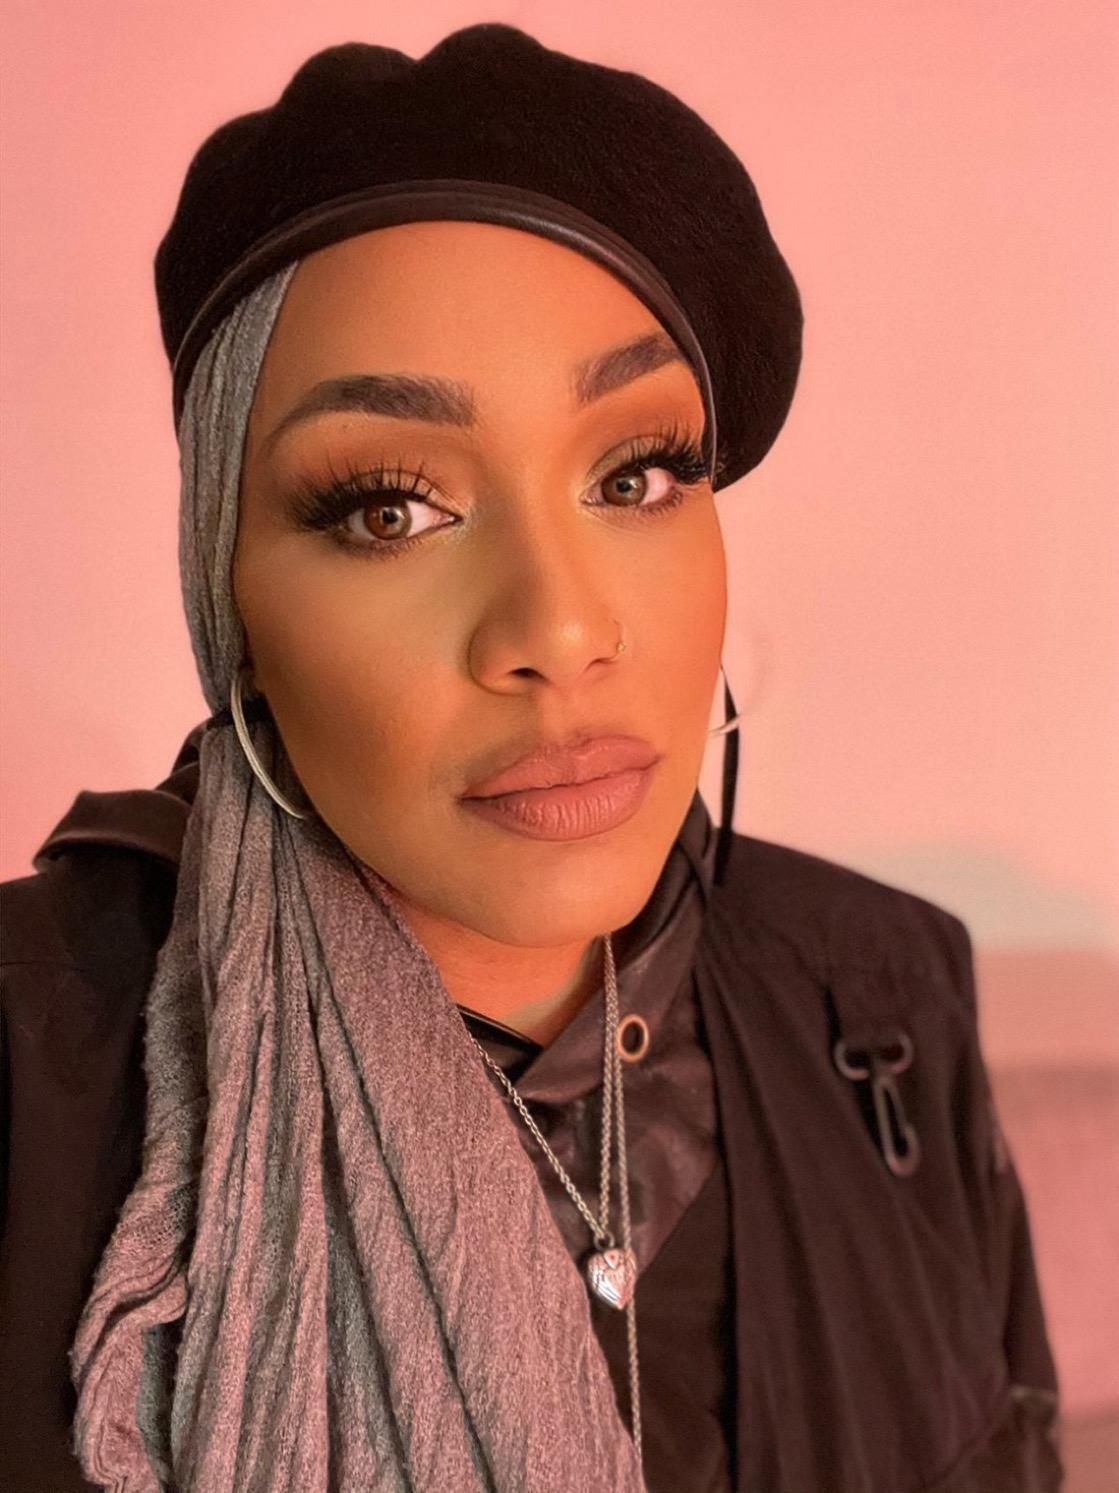
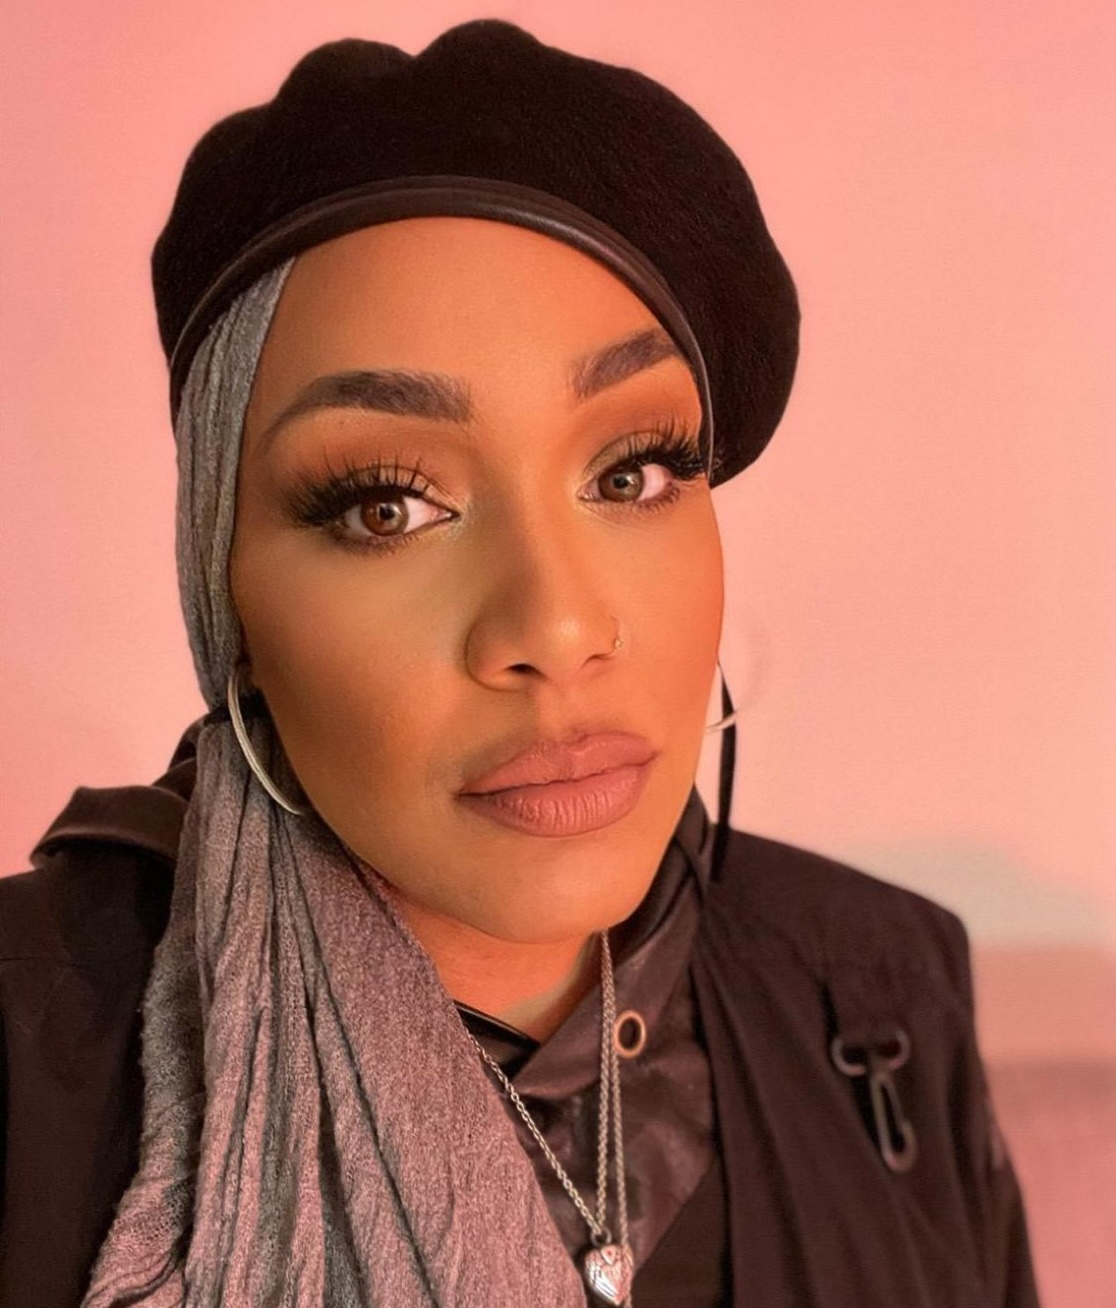
Chore: minor changes, removed links that are not working yet

diff --git a/components/navbar.tsx b/components/navbar.tsx
@@ -11,21 +11,21 @@ import { NavigationMenu, NavigationMenuLink, NavigationMenuList } from "./ui/nav
 import { SheetContent, SheetHeader, SheetTitle, SheetTrigger } from "./ui/sheet";
 import Logo from "@/public/Musicmindlogo.svg";
 import Image from "next/image";
-import Info from "@/public/info-circle.svg";
+// import Info from "@/public/info-circle.svg";
 import Infoh from "@/public/info-circleh.svg";
-import People from "@/public/people.svg";
+// import People from "@/public/people.svg";
 import Peopleh from "@/public/peopleh.svg";
-import Case from "@/public/briefcase.svg";
-import Caseh from "@/public/briefcaseh.svg";
-import Text from "@/public/text-block.svg";
+// import Case from "@/public/briefcase.svg";
+// import Caseh from "@/public/briefcaseh.svg";
+// import Text from "@/public/text-block.svg";
 import Texth from "@/public/text-blockh.svg";
 import { MdKeyboardArrowDown, MdKeyboardArrowUp } from "react-icons/md";
-import {
-  DropdownMenu,
-  DropdownMenuContent,
-  DropdownMenuItem,
-  DropdownMenuTrigger,
-} from "@/components/ui/dropdown-menu";
+// import {
+//   DropdownMenu,
+//   DropdownMenuContent,
+//   DropdownMenuItem,
+//   DropdownMenuTrigger,
+// } from "@/components/ui/dropdown-menu";
 import React from "react";
 import LanguageSwitcher from "./LanguageSwitcher";
 
@@ -33,27 +33,27 @@ export default function NavBar({ locale }: { locale: string }) {
   const { t } = useTranslation("common");
   console.log(`NavBar locale: ${locale}, t is function: ${typeof t === "function"}`);
 
-  const [isOpen, setIsOpen] = useState(false);
+  //const [isOpen, setIsOpen] = useState(false);
   const [expandedMenu, setExpandedMenu] = useState<string | null>(null);
-  const [hoverStates, setHoverStates] = useState({
-    aboutUs: false,
-    career: false,
-    culture: false,
-    press: false,
-  });
+  // const [hoverStates, setHoverStates] = useState({
+  //   aboutUs: false,
+  //   career: false,
+  //   culture: false,
+  //   press: false,
+  // });
 
-  const handleOpenChange = (open: boolean) => {
-    setIsOpen(open);
-    if (!open) setExpandedMenu(null);
-  };
-
-  const handleMouseEnter = (item: keyof typeof hoverStates) => {
-    setHoverStates((prev) => ({ ...prev, [item]: true }));
-  };
-
-  const handleMouseLeave = (item: keyof typeof hoverStates) => {
-    setHoverStates((prev) => ({ ...prev, [item]: false }));
-  };
+  // const handleOpenChange = (open: boolean) => {
+  //   setIsOpen(open);
+  //   if (!open) setExpandedMenu(null);
+  // };
+  //
+  // const handleMouseEnter = (item: keyof typeof hoverStates) => {
+  //   setHoverStates((prev) => ({ ...prev, [item]: true }));
+  // };
+  //
+  // const handleMouseLeave = (item: keyof typeof hoverStates) => {
+  //   setHoverStates((prev) => ({ ...prev, [item]: false }));
+  // };
 
   const toggleMenu = (menu: string) => {
     setExpandedMenu(expandedMenu === menu ? null : menu);
@@ -115,15 +115,15 @@ export default function NavBar({ locale }: { locale: string }) {
                         <span>{t("navbar.about_us")}</span>
                       </Button>
                     </Link>
-                    <Link href="/career">
-                      <Button
-                        variant="ghost"
-                        className="w-full flex items-start justify-start space-x-2"
-                      >
-                        <Image src={Caseh} alt="" className="h-6 w-6" width={24} height={24} />
-                        <span>{t("navbar.career")}</span>
-                      </Button>
-                    </Link>
+                    {/*<Link href="/career">*/}
+                    {/*  <Button*/}
+                    {/*    variant="ghost"*/}
+                    {/*    className="w-full flex items-start justify-start space-x-2"*/}
+                    {/*  >*/}
+                    {/*    <Image src={Caseh} alt="" className="h-6 w-6" width={24} height={24} />*/}
+                    {/*    <span>{t("navbar.career")}</span>*/}
+                    {/*  </Button>*/}
+                    {/*</Link>*/}
                     <Link href="/culture">
                       <Button
                         variant="ghost"
@@ -164,16 +164,16 @@ export default function NavBar({ locale }: { locale: string }) {
                     </Button>
                   </Link>
                 </DialogClose>
-                <DialogClose asChild>
-                  <Link href="/how-it-works">
-                    <Button
-                      variant="ghost"
-                      className="w-full flex items-center justify-start space-x-2"
-                    >
-                      <span>{t("navbar.how_it_works")}</span>
-                    </Button>
-                  </Link>
-                </DialogClose>
+                {/*<DialogClose asChild>*/}
+                {/*  <Link href="/how-it-works">*/}
+                {/*    <Button*/}
+                {/*      variant="ghost"*/}
+                {/*      className="w-full flex items-center justify-start space-x-2"*/}
+                {/*    >*/}
+                {/*      <span>{t("navbar.how_it_works")}</span>*/}
+                {/*    </Button>*/}
+                {/*  </Link>*/}
+                {/*</DialogClose>*/}
               </div>
               <div className="bg-[#F2F1FF] absolute bottom-0 left-0 w-full flex justify-center items-center p-4">
                 <Link href="/waitlist">
@@ -185,77 +185,77 @@ export default function NavBar({ locale }: { locale: string }) {
         </Dialog>
 
         <div className="flex items-center gap-2 max-[825px]:hidden">
-          <DropdownMenu onOpenChange={handleOpenChange}>
-            <DropdownMenuTrigger>
-              <Button variant="ghost">
-                {t("navbar.company")}{" "}
-                {isOpen ? (
-                  <MdKeyboardArrowUp className="h-5 w-5 text-gray-500" />
-                ) : (
-                  <MdKeyboardArrowDown className="h-5 w-5 text-gray-500" />
-                )}
-              </Button>
-            </DropdownMenuTrigger>
-            <DropdownMenuContent className="p-5 border-8 border-[#EEEDFF] rounded-lg">
-              <DropdownMenuItem
-                onMouseEnter={() => handleMouseEnter("aboutUs")}
-                onMouseLeave={() => handleMouseLeave("aboutUs")}
-              >
-                <Link href="/about" className="flex gap-2">
-                  <Image src={hoverStates.aboutUs ? Infoh : Info} alt="" className="pr-1" />
-                  <div className="flex-col items-center">
-                    <h4 className="font-bold">{t("navbar.about_us")}</h4>
-                    <p>{t("navbar.about_us_description")}</p>
-                  </div>
-                </Link>
-              </DropdownMenuItem>
-              <DropdownMenuItem
-                onMouseEnter={() => handleMouseEnter("career")}
-                onMouseLeave={() => handleMouseLeave("career")}
-              >
-                <Link href="/career" className="flex gap-2">
-                  <Image src={hoverStates.career ? Caseh : Case} alt="" className="pr-1" />
-                  <div className="flex-col items-center">
-                    <h4 className="font-bold">{t("navbar.career")}</h4>
-                    <p>{t("navbar.career_description")}</p>
-                  </div>
-                </Link>
-              </DropdownMenuItem>
-              <DropdownMenuItem
-                onMouseEnter={() => handleMouseEnter("culture")}
-                onMouseLeave={() => handleMouseLeave("culture")}
-              >
-                <Link href="/culture" className="flex gap-2">
-                  <Image src={hoverStates.culture ? Peopleh : People} alt="" className="pr-1" />
-                  <div className="flex-col items-center">
-                    <h4 className="font-bold">{t("navbar.culture")}</h4>
-                    <p>{t("navbar.culture_description")}</p>
-                  </div>
-                </Link>
-              </DropdownMenuItem>
-              <DropdownMenuItem
-                onMouseEnter={() => handleMouseEnter("press")}
-                onMouseLeave={() => handleMouseLeave("press")}
-              >
-                <Link href="/" className="flex gap-2">
-                  <Image src={hoverStates.press ? Texth : Text} alt="" className="pr-1" />
-                  <div className="flex-col items-center">
-                    <h4 className="font-bold">{t("navbar.press")}</h4>
-                    <p>{t("navbar.press_description")}</p>
-                  </div>
-                </Link>
-              </DropdownMenuItem>
-            </DropdownMenuContent>
-          </DropdownMenu>
+          {/*<DropdownMenu onOpenChange={handleOpenChange}>*/}
+          {/*  <DropdownMenuTrigger>*/}
+          {/*    <Button variant="ghost">*/}
+          {/*      {t("navbar.company")}{" "}*/}
+          {/*      {isOpen ? (*/}
+          {/*        <MdKeyboardArrowUp className="h-5 w-5 text-gray-500" />*/}
+          {/*      ) : (*/}
+          {/*        <MdKeyboardArrowDown className="h-5 w-5 text-gray-500" />*/}
+          {/*      )}*/}
+          {/*    </Button>*/}
+          {/*  </DropdownMenuTrigger>*/}
+          {/*  <DropdownMenuContent className="p-5 border-8 border-[#EEEDFF] rounded-lg">*/}
+          {/*    <DropdownMenuItem*/}
+          {/*      onMouseEnter={() => handleMouseEnter("aboutUs")}*/}
+          {/*      onMouseLeave={() => handleMouseLeave("aboutUs")}*/}
+          {/*    >*/}
+          {/*      <Link href="/about" className="flex gap-2">*/}
+          {/*        <Image src={hoverStates.aboutUs ? Infoh : Info} alt="" className="pr-1" />*/}
+          {/*        <div className="flex-col items-center">*/}
+          {/*          <h4 className="font-bold">{t("navbar.about_us")}</h4>*/}
+          {/*          <p>{t("navbar.about_us_description")}</p>*/}
+          {/*        </div>*/}
+          {/*      </Link>*/}
+          {/*    </DropdownMenuItem>*/}
+          {/*    /!*<DropdownMenuItem*!/*/}
+          {/*    /!*  onMouseEnter={() => handleMouseEnter("career")}*!/*/}
+          {/*    /!*  onMouseLeave={() => handleMouseLeave("career")}*!/*/}
+          {/*    /!*>*!/*/}
+          {/*    /!*  <Link href="/career" className="flex gap-2">*!/*/}
+          {/*    /!*    <Image src={hoverStates.career ? Caseh : Case} alt="" className="pr-1" />*!/*/}
+          {/*    /!*    <div className="flex-col items-center">*!/*/}
+          {/*    /!*      <h4 className="font-bold">{t("navbar.career")}</h4>*!/*/}
+          {/*    /!*      <p>{t("navbar.career_description")}</p>*!/*/}
+          {/*    /!*    </div>*!/*/}
+          {/*    /!*  </Link>*!/*/}
+          {/*    /!*</DropdownMenuItem>*!/*/}
+          {/*    <DropdownMenuItem*/}
+          {/*      onMouseEnter={() => handleMouseEnter("culture")}*/}
+          {/*      onMouseLeave={() => handleMouseLeave("culture")}*/}
+          {/*    >*/}
+          {/*      <Link href="/culture" className="flex gap-2">*/}
+          {/*        <Image src={hoverStates.culture ? Peopleh : People} alt="" className="pr-1" />*/}
+          {/*        <div className="flex-col items-center">*/}
+          {/*          <h4 className="font-bold">{t("navbar.culture")}</h4>*/}
+          {/*          <p>{t("navbar.culture_description")}</p>*/}
+          {/*        </div>*/}
+          {/*      </Link>*/}
+          {/*    </DropdownMenuItem>*/}
+          {/*    <DropdownMenuItem*/}
+          {/*      onMouseEnter={() => handleMouseEnter("press")}*/}
+          {/*      onMouseLeave={() => handleMouseLeave("press")}*/}
+          {/*    >*/}
+          {/*      <Link href="/" className="flex gap-2">*/}
+          {/*        <Image src={hoverStates.press ? Texth : Text} alt="" className="pr-1" />*/}
+          {/*        <div className="flex-col items-center">*/}
+          {/*          <h4 className="font-bold">{t("navbar.press")}</h4>*/}
+          {/*          <p>{t("navbar.press_description")}</p>*/}
+          {/*        </div>*/}
+          {/*      </Link>*/}
+          {/*    </DropdownMenuItem>*/}
+          {/*  </DropdownMenuContent>*/}
+          {/*</DropdownMenu>*/}
           <Link href="/">
-            <Button variant="ghost">{t("navbar.features")}</Button>
+            <Button variant="ghost">{t("navbar.about_us")}</Button>
           </Link>
           <Link href="/contact">
             <Button variant="ghost">{t("navbar.contact")}</Button>
           </Link>
-          <Link href="/">
-            <Button variant="ghost">{t("navbar.how_it_works")}</Button>
-          </Link>
+          {/*<Link href="/">*/}
+          {/*  <Button variant="ghost">{t("navbar.how_it_works")}</Button>*/}
+          {/*</Link>*/}
           <Link href="/waitlist">
             <Button className="text-white">{t("navbar.join_waitlist")}</Button>
           </Link>

diff --git a/components/home-page/footer.tsx b/components/home-page/footer.tsx
@@ -40,31 +40,31 @@ export  function Footer({ locale }: { locale: string }) {
             <h5 className="font-bold">{t("footer.company")}</h5>
             <Link href={`/about`}>{t("footer.about_us")}</Link>
             <Link href={`/contact`}>{t("footer.contact")}</Link>
-            <Link href={``}>{t("footer.careers")}</Link>
-            <Link href={``}>{t("footer.blog")}</Link>
+            {/*<Link href={``}>{t("footer.careers")}</Link>*/}
+            {/*<Link href={``}>{t("footer.blog")}</Link>*/}
           </div>
           <div className="flex flex-col items-start gap-2 md:items-center min-w-[100px]">
             <h5 className="font-bold">{t("footer.resources")}</h5>
-            <Link href={``}>{t("footer.help_center")}</Link>
-            <Link href={``}>{t("footer.community")}</Link>
-            <Link href={``}>{t("footer.tutorials")}</Link>
-            <Link href={``}>{t("footer.events")}</Link>
+            {/*<Link href={``}>{t("footer.help_center")}</Link>*/}
+            {/*<Link href={``}>{t("footer.community")}</Link>*/}
+            {/*<Link href={``}>{t("footer.tutorials")}</Link>*/}
+            {/*<Link href={``}>{t("footer.events")}</Link>*/}
+            <Link href={`/conduct`}>{t("footer.code_of_conduct")}</Link>
+            <Link href={`https://www.google.com/maps/place/Reichsstra%C3%9Fe+99,+14052+Berlin,+Germany/@52.5118569,13.2644961,17z/data=!3m1!4b1!4m6!3m5!1s0x47a857291d55130b:0xfdae2534a72974d3!8m2!3d52.5118569!4d13.267071!16s%2Fg%2F11b8v674cx?entry=ttu&g_ep=EgoyMDI1MDcwNi4wIKXMDSoASAFQAw%3D%3D`}
+                  className="break-words">{t("footer.address")}</Link>
           </div>
           <div className="flex flex-col items-start gap-2 min-w-[100px]">
             <h5 className="font-bold">{t("footer.legal")}</h5>
             <Link href={`/privacy`}>{t("footer.privacy_policy")}</Link>
             <Link href={`/terms`}>{t("footer.terms_conditions")}</Link>
-            <Link href={`/conduct`}>{t("footer.code_of_conduct")}</Link>
-            <Link href={``}>{t("footer.compliance")}</Link>
+            {/*<Link href={`/conduct`}>{t("footer.code_of_conduct")}</Link>*/}
+            {/*<Link href={``}>{t("footer.compliance")}</Link>*/}
           </div>
           <div className="flex flex-col items-start gap-2 w-full max-w-[200px] md:max-w-[180px] lg:max-w-[240px] text-sm">
             <h5 className="font-bold">{t("footer.contact")}</h5>
-            <Link href={`/privacy-policy`} className="break-words">
-              {t("footer.address")}
-            </Link>
-            <Link href={`/terms-of-service`}>{t("footer.email")}</Link>
-            <Link href={`/cookie-policy`}>{t("footer.phone")}</Link>
-            <Link href={``}>{t("footer.events")}</Link>
+            <Link href={`mailto:support@music-minds.io`}>{t("footer.email")}</Link>
+            <Link href={`tel:+4915733927104`}>{t("footer.phone")}</Link>
+            {/*<Link href={``}>{t("footer.events")}</Link>*/}
           </div>
         </Container>
         <Container className="not-prose flex flex-col justify-between gap-6 border-t md:flex-row md:items-center md:gap-2 w-full max-w-full">

diff --git a/app/about/_components/Feature.tsx b/app/about/_components/Feature.tsx
@@ -1,6 +1,5 @@
 "use client";
 
-import Link from "next/link";
 import Balancer from "react-wrap-balancer";
 import { Section, Container } from "@/components/craft";
 import Image from "next/image";
@@ -63,7 +62,7 @@ export default function Feature1({ locale }: { locale: string }) {
           <p className="text-xs">{t("feature1.cmo_role")}</p>
         </div>
       ),
-      href: "/",
+     // href: "/",
       description: t("feature1.cmo_description"),
     },
     {
@@ -80,7 +79,7 @@ export default function Feature1({ locale }: { locale: string }) {
           <p className="text-xs">{t("feature1.coo_role")}</p>
         </div>
       ),
-      href: "/",
+      // href: "/",
       description: t("feature1.coo_description"),
     },
     {
@@ -97,7 +96,7 @@ export default function Feature1({ locale }: { locale: string }) {
           <p className="text-xs">{t("feature1.ceo_role")}</p>
         </div>
       ),
-      href: "/",
+      //href: "/",
       description: t("feature1.ceo_description"),
     },
     {
@@ -114,7 +113,7 @@ export default function Feature1({ locale }: { locale: string }) {
           <p className="text-xs">{t("feature1.vp_role")}</p>
         </div>
       ),
-      href: "/",
+     /// href: "/",
       description: t("feature1.vp_description"),
     },
   ];
@@ -154,9 +153,9 @@ export default function Feature1({ locale }: { locale: string }) {
             data-aos="fade-up"
             data-aos-delay="400"
           >
-            {featureText.map(({ img, title, description, href }, index) => (
-              <Link
-                href={`${href}`}
+            {featureText.map(({ img, title, description }, index) => (
+              <Container
+                // href={`${href}`}
                 className="flex flex-col justify-between items-center gap-6 rounded-lg border p-6 transition-all hover:-mt-2 hover:mb-2 backdrop-filter backdrop-blur-lg bg-card border-card border-opacity-20 shadow-lg"
                 key={index}
                 data-aos="fade-right"
@@ -168,7 +167,7 @@ export default function Feature1({ locale }: { locale: string }) {
                   <hr />
                   <p className="text-base opacity-75 text-center">{description}</p>
                 </div>
-              </Link>
+              </Container>
             ))}
           </div>
         </div>
